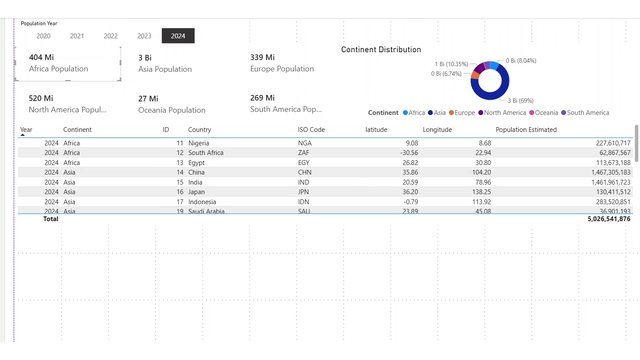
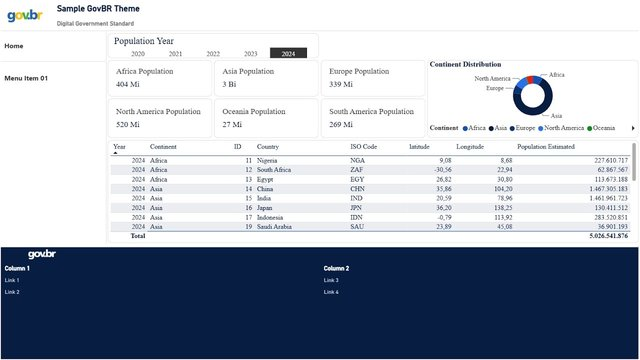
Use the public YouTube video for the PBI Grid demo

diff --git a/_pages/talks.md b/_pages/talks.md
@@ -13,10 +13,10 @@ More on my [YouTube channel](https://www.youtube.com/@fernandommota). Talks and 
 
 <div class="row">
   <div class="col-sm-6 mb-4">
-    <a href="https://zenodo.org/records/21462034" target="_blank" rel="noopener"><img src="{{ '/assets/img/videos/pbi-grid-demo.jpg' | relative_url }}" class="img-fluid rounded z-depth-1" loading="lazy" width="640" height="360" alt="PBI Grid demo: a Power BI report generated from a YAML layout"></a>
-    <p class="mt-2 mb-0"><a href="https://zenodo.org/records/21462034" target="_blank" rel="noopener"><b>PBI Grid demo</b></a></p>
-    <p class="small text-muted mb-0">2026 · Zenodo · in English</p>
-    <p class="small mb-0">From a YAML layout to a Power BI report: the 12-column grid, the debug grid, the <code>extract</code> command and the GovBR theme. Companion to the <a href="{{ '/publications/' | relative_url }}">SBES 2026 paper</a>.</p>
+    <a href="https://www.youtube.com/watch?v=3WtDYCx9z-k" target="_blank" rel="noopener"><img src="{{ '/assets/img/videos/pbi-grid-demo.jpg' | relative_url }}" class="img-fluid rounded z-depth-1" loading="lazy" width="640" height="360" alt="PBI Grid demo: a Power BI report with the GovBR theme generated from a YAML layout"></a>
+    <p class="mt-2 mb-0"><a href="https://www.youtube.com/watch?v=3WtDYCx9z-k" target="_blank" rel="noopener"><b>PBI Grid: A DaC Tool for Enhancing Maintainability and govbr Compliance in Power BI Reports</b></a></p>
+    <p class="small text-muted mb-0">November 2026 · tool demo · in English</p>
+    <p class="small mb-0">From a YAML layout to a Power BI report: the 12-column grid, the debug grid, the <code>extract</code> command and the GovBR theme. Companion to the <a href="{{ '/publications/' | relative_url }}">SBES 2026 paper</a>; also archived on <a href="https://zenodo.org/records/21462034" target="_blank" rel="noopener">Zenodo</a>.</p>
   </div>
 </div>
 
